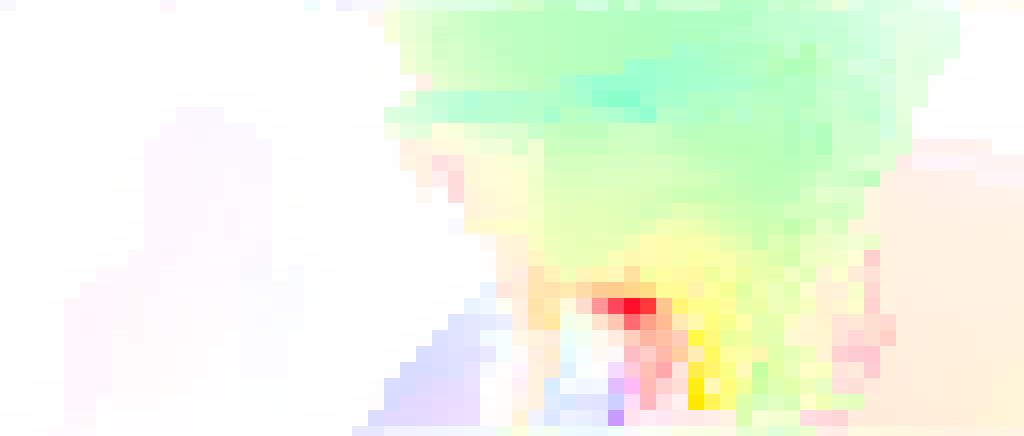
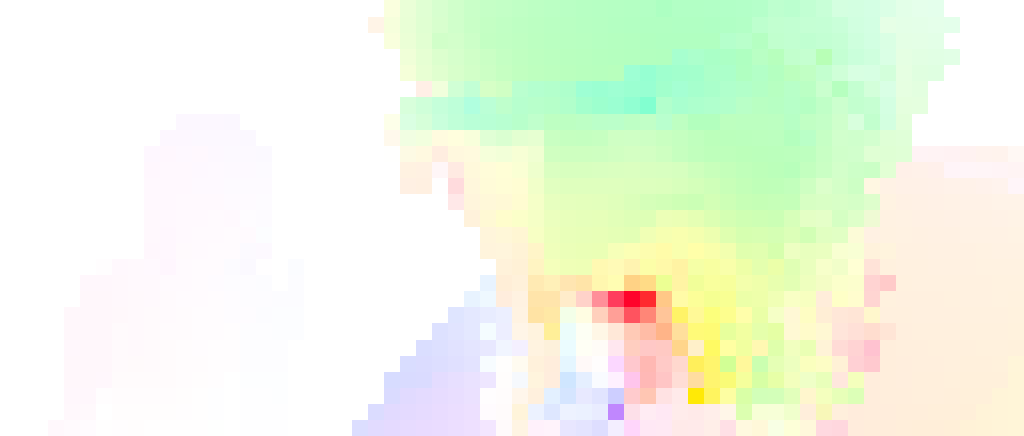
fixed some bugs in visual

diff --git a/sample_and_draw.py b/sample_and_draw.py
@@ -28,6 +28,27 @@ def read_flo_file(filename):
     f.close()
     return data2d
 
+def vis2(a, scale):
+    img = fz.convert_from_flow(a)
+    dict_order = ["out", "gt", "raft"]
+    OUTPATH = "tmp_visual/"
+    imgs = []
+    for (i, dic) in enumerate(dict_order):
+        shape = np.shape(img)
+        print(shape)
+        h = int(shape[0]/3)
+        print(h)
+        cur = img[i*h: (i+1)*h, :, :]
+        imgs.append(cur)
+
+    size = np.shape(imgs[0])
+    for (i, (name, img)) in enumerate(zip(dict_order, imgs)):
+        resized = zoom(img, (scale, scale, 1))
+        resized = cv2.resize(resized, (size[1], size[0]), interpolation=cv2.INTER_NEAREST)
+        cv2.imwrite(OUTPATH + name + "-{}.png".format(scale), resized)
+
+    
+
 def vis(a, name="default"):
     print("NAME ", name)
     img = fz.convert_from_flow(a)
@@ -64,7 +85,7 @@ def paint(scene, fr_num):
     for scale in {1.0, 0.25, 1.0/16}:
         tmp = np.concatenate((out, gt, raft), 0)
         print(np.shape(tmp))
-        vis(tmp, scale)
+        vis2(tmp, scale)
         # vis(cv2.resize(zoom(tmp,  (scale, scale, 1)), size, interpolation=cv2.INTER_NEAREST), "{}.png".format(scale))
         # vis(cv2.resize(zoom(out,  (scale, scale, 1)), size, interpolation=cv2.INTER_NEAREST), "out-{}.png".format(scale))
         # vis(cv2.resize(zoom(gt,   (scale, scale, 1)), size, interpolation=cv2.INTER_NEAREST), "gt-{}.png".format(scale))
